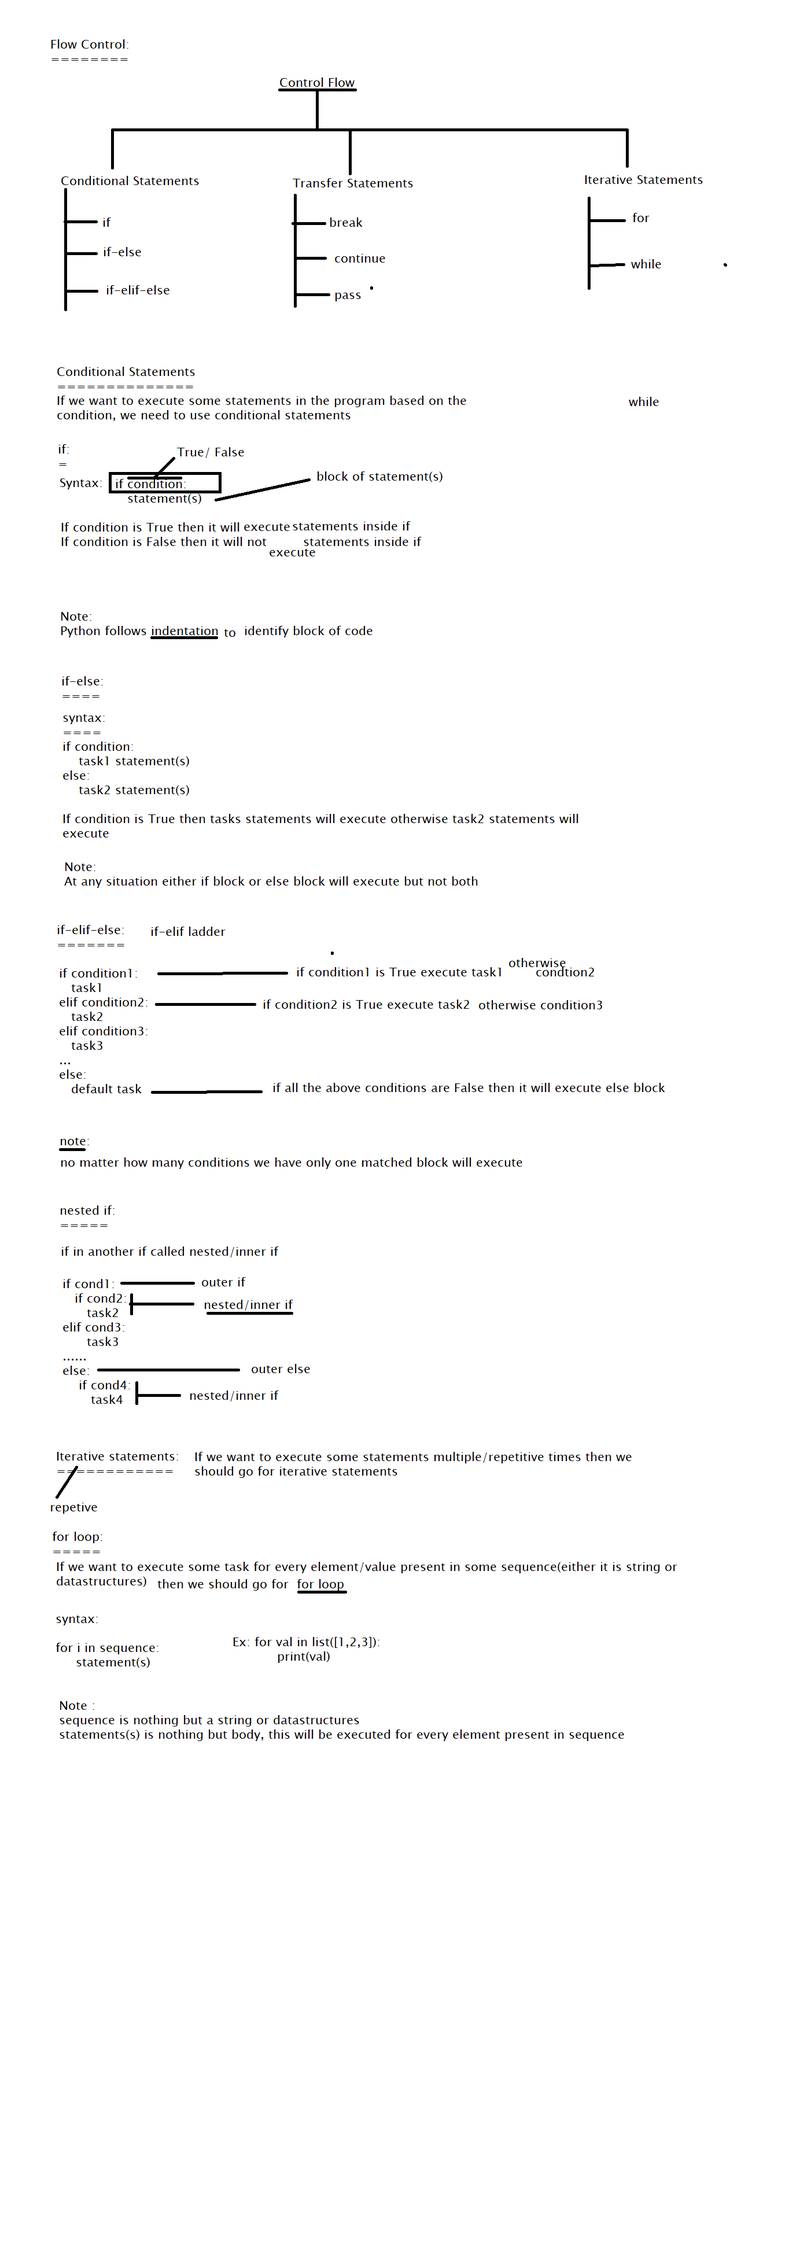
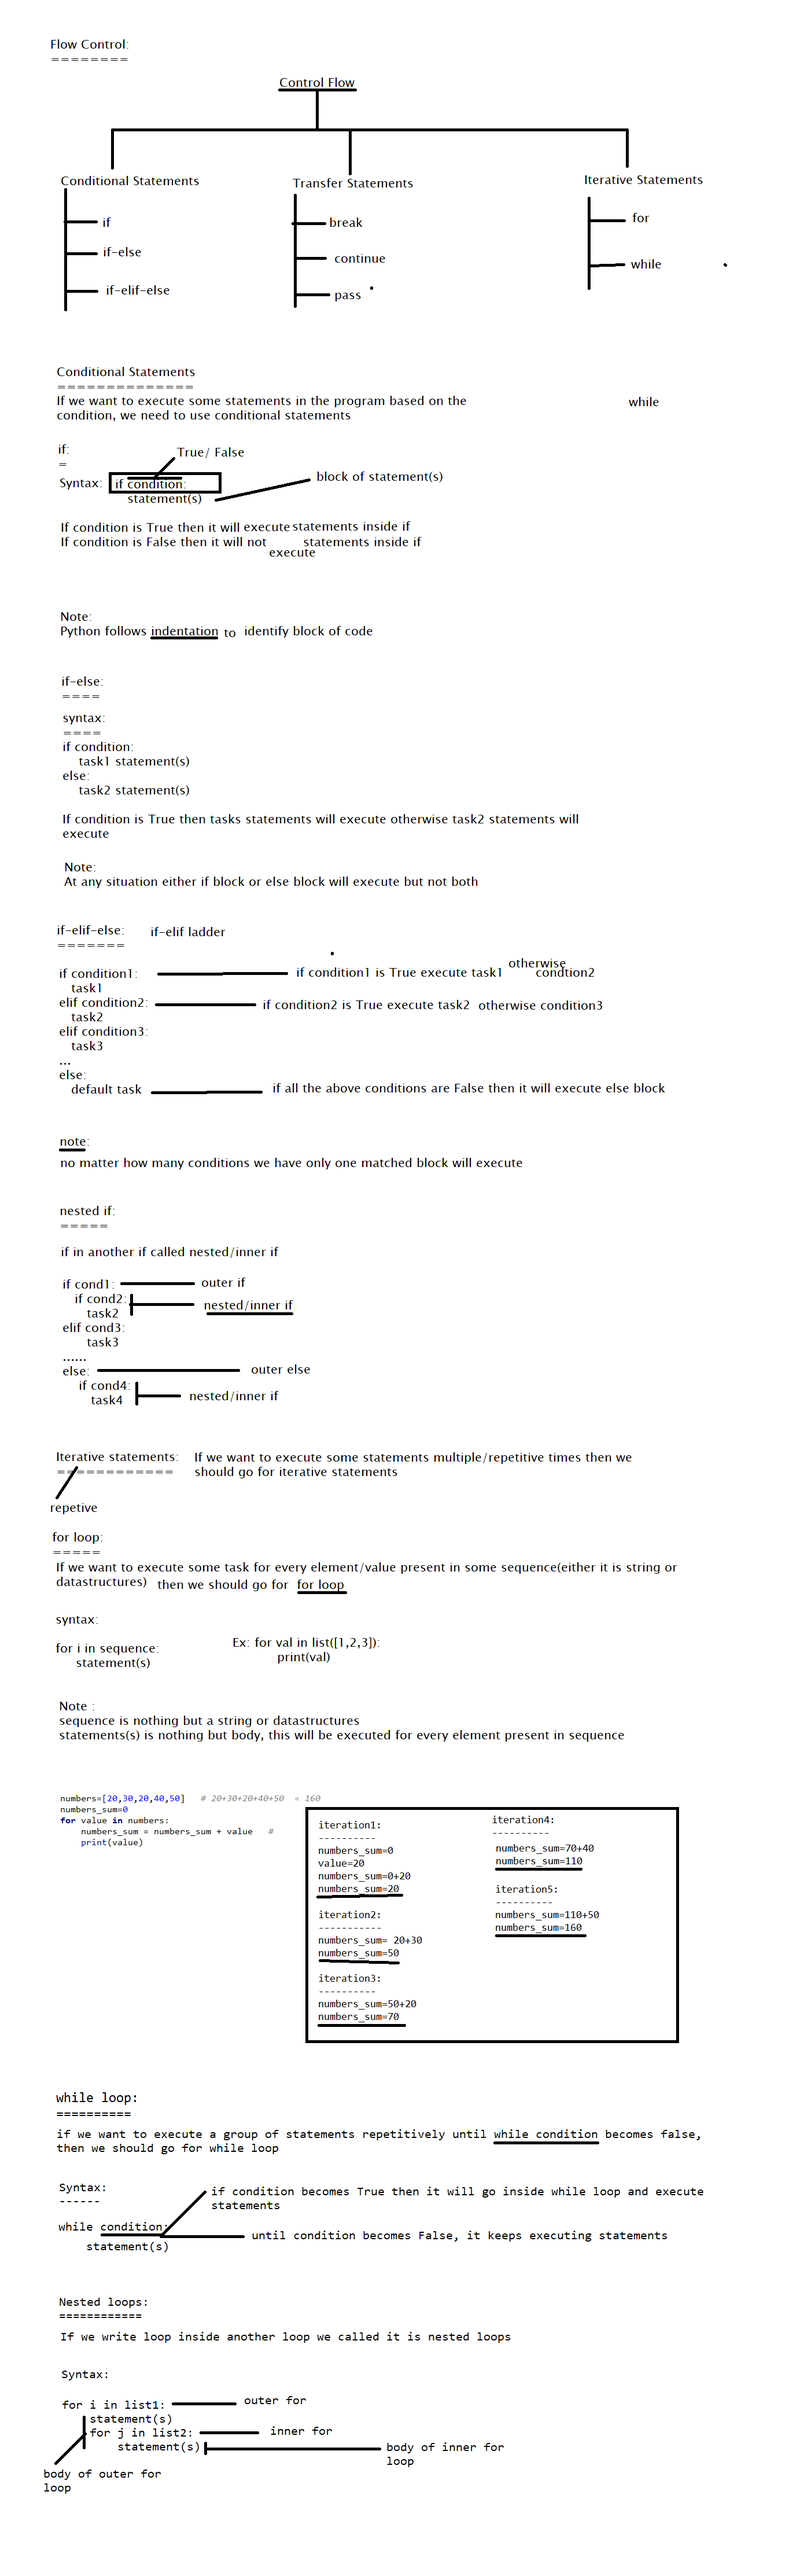
iterative statements

diff --git a/iterative_statements.py b/iterative_statements.py
@@ -25,3 +25,70 @@
 # i want to print all the odd numbers from 1 to 30
 # for i in range(2,31,2):
 #     print(i,end=' ')
+
+# vowels= {'a','e','i','o','u'}
+# vowels={}
+# print(type(vowels))
+# print(vowels)
+# for value in vowels:
+#     print(value)
+
+# iterative list and fetching values using indexing
+# numbers=[20,30,20,40,50]
+# numbers_len = len(numbers)  # 5
+# for value in range(0,5)
+# for 0 in range(5)
+# for 1 in range(5)
+# for 2 in range(5)
+# for 3 in range(5)
+# for 4 in range(5)
+
+# for value in range(numbers_len):
+#     print(value)
+#     print(numbers[value])
+# numbers=[20,30,20,40,50]
+# i=0
+# for value in numbers:
+#     print("the value present in index ",i," is ",numbers[i])
+#     i=i+1
+
+
+
+# write a program to print sum of all numbers present in list
+# numbers=[20,30,20,40,50]   # 20+30+20+40+50  = 160
+# numbers_sum=0
+# for value in numbers:
+#     numbers_sum = numbers_sum + value   #
+#     print(numbers_sum)
+#     # print(value)
+# print(numbers_sum)
+
+
+# while loop
+# write a program to print values from 1 to 10
+# a=1
+# while a<=10:  # 1<=10  --> True
+#     print(a)  # 2<=10  --> True
+#     a=a+1     # 3<=10  --> True
+              # 10<=10 --> True
+              # 11<=10  --> False
+
+# a=1
+# print(a)
+# while a<=10:  #1 3 5 7 9 11
+#     print(a)
+#     a=a+2
+# print(a)  # 11
+
+# while False:
+#     print("inside looop")
+
+
+# inner for loop
+# we want to print values from list1 and list2
+list1=[1,2,3,4]   # 4 times
+list2=[10,20,30,40]  # 4 times
+# 4*4
+for i in list1:  # 1 2
+    for j in list2:  # 10 20 30 40
+        print("value from outer for is ",i," and outer for is ",j)
